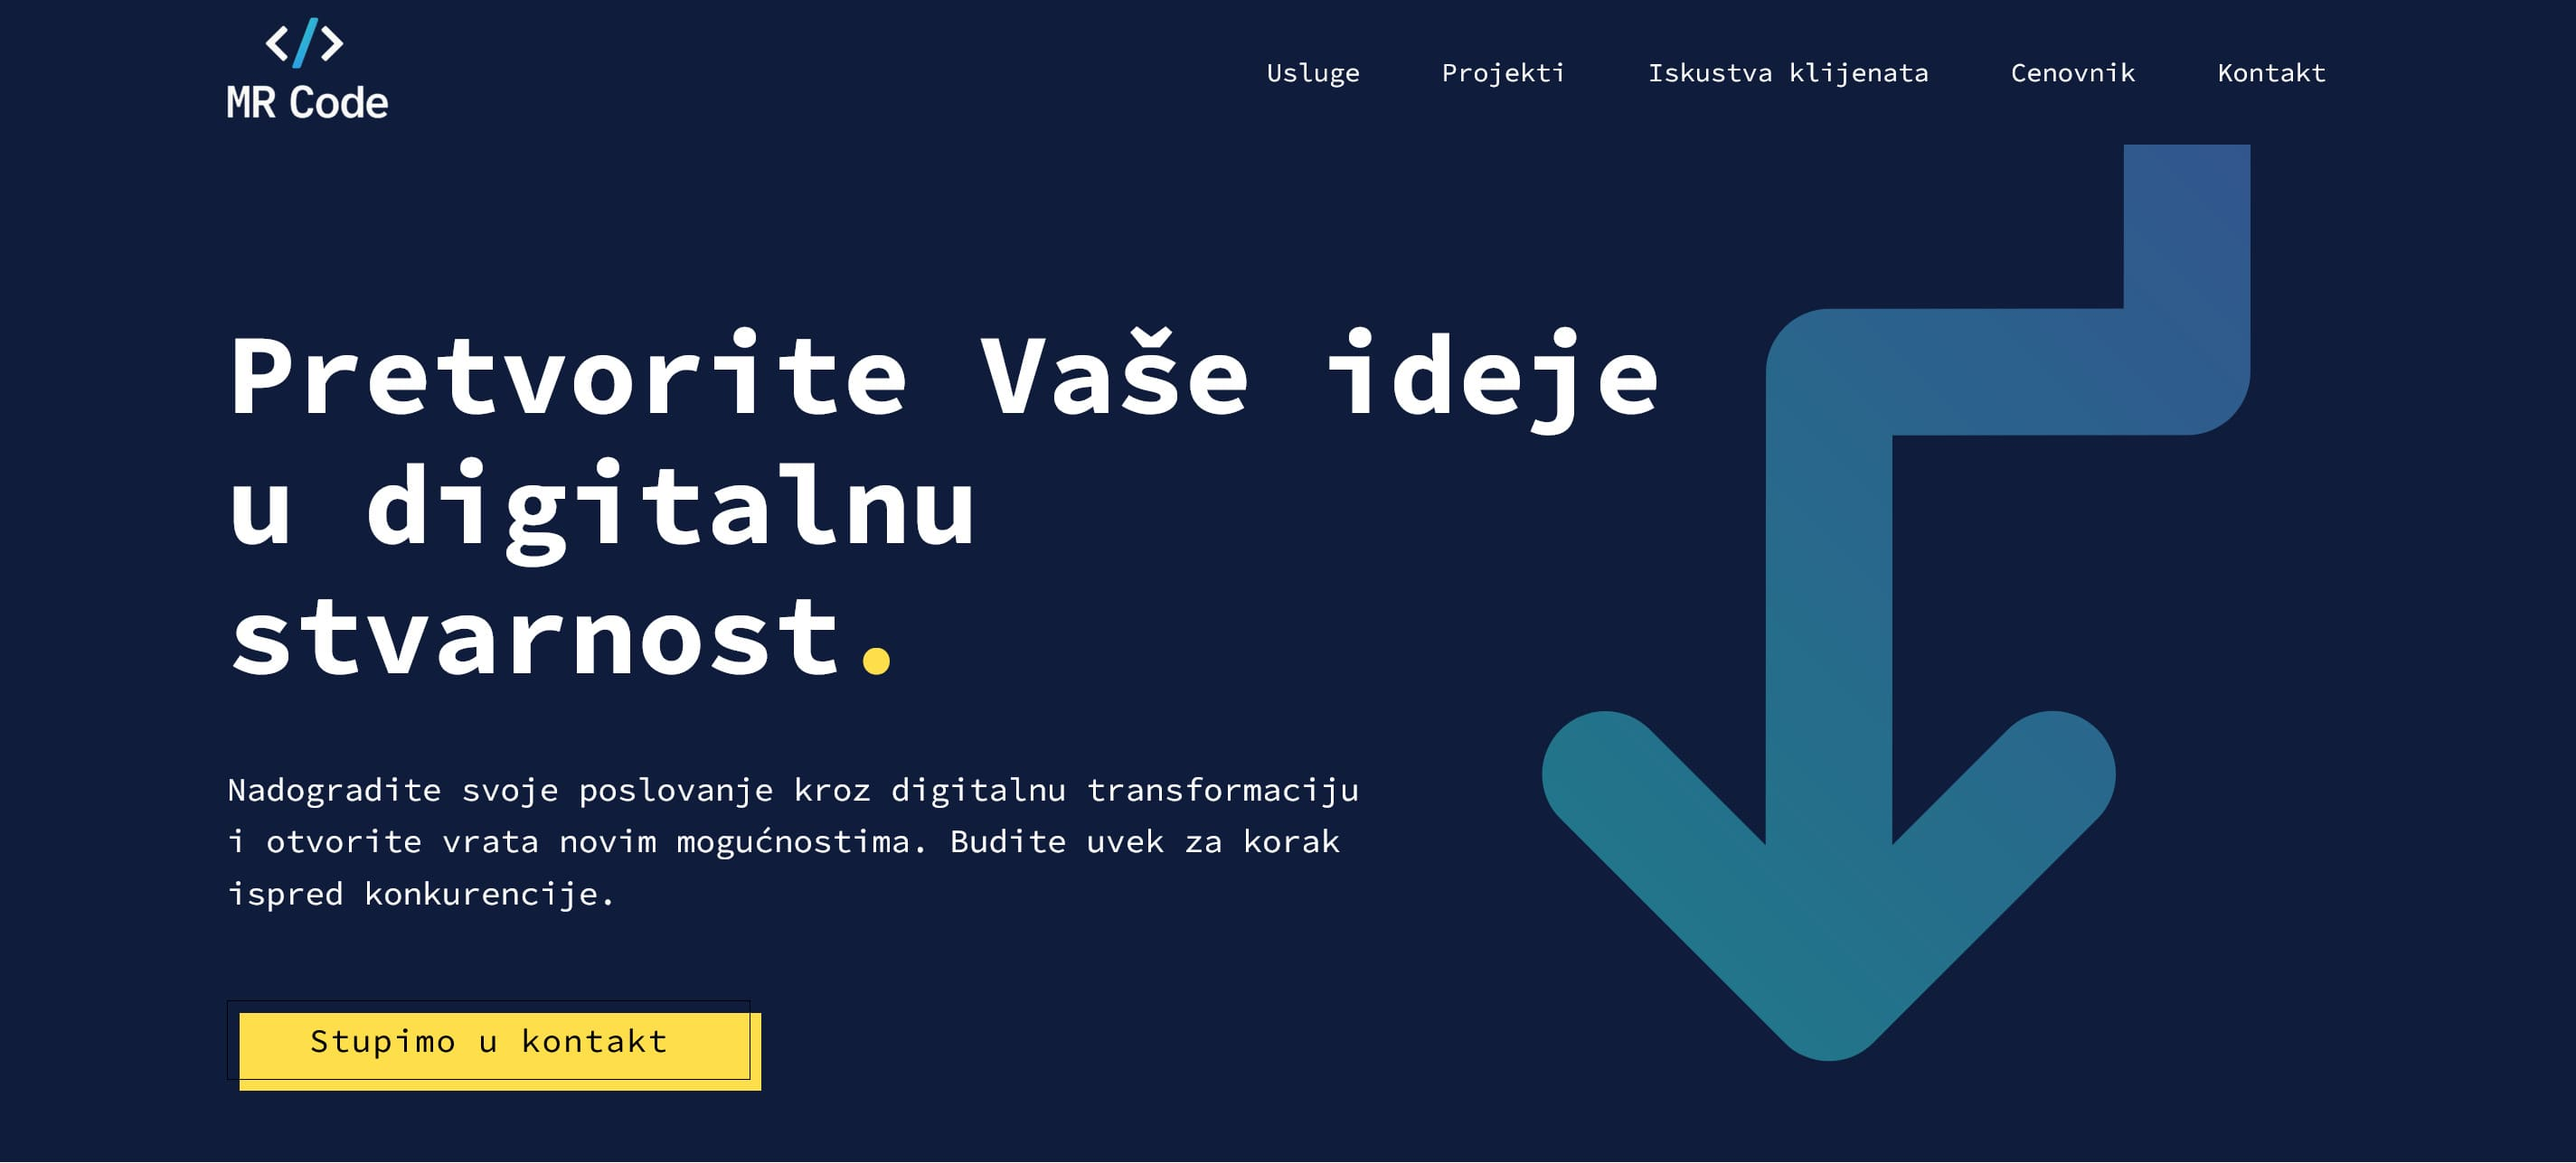
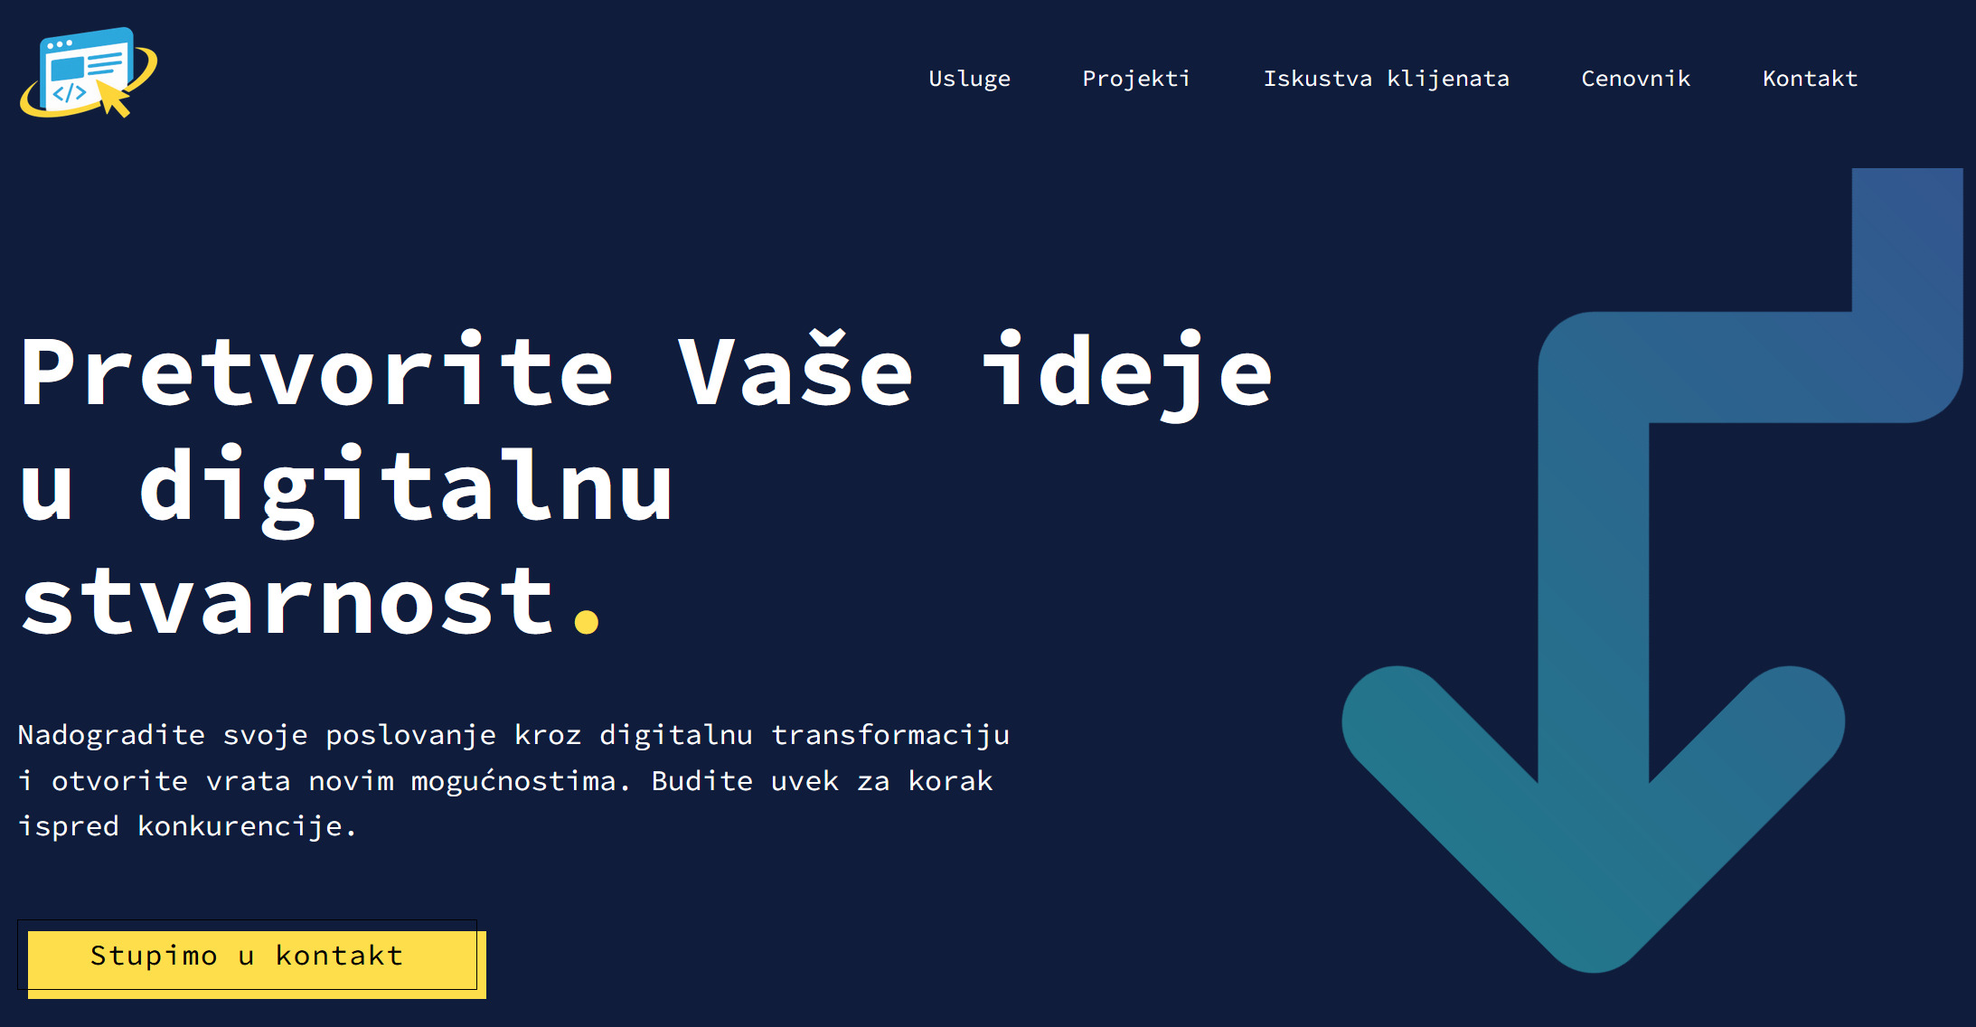
Various improvements

diff --git a/assets/js/global/global.js b/assets/js/global/global.js
@@ -2,13 +2,13 @@
 
 
 // Global elements
-import { ROOT } from '../utils/dom-elements.js';
+import { ROOT } from "../utils/dom-elements.js";
 
 // Class names
-import { class_screenLocked } from '../utils/dom-class-names.js';
+import { class_screenLocked } from "../utils/dom-class-names.js";
 
 // Global Objects
-import ScreenLocker from '../screen-locker/screen-locker.js';
+import ScreenLocker from "../screen-locker/screen-locker.js";
 
 
 /**
@@ -100,7 +100,7 @@ export function createScrollDirectionTracker() {
  * Checks if given HTML element / CSS selector is valid.
  * If HTML element exists return true.
  * If HTML element that is returned from querying with given CSS selector exists, return true.
- * If selector is invalid or element don't exists, return false
+ * If selector is invalid or element don"t exists, return false
  * 
  * @param {HTMLElement | String} elementOrSelector - HTMLElement or String
  *  
@@ -109,7 +109,7 @@ export function createScrollDirectionTracker() {
 function isElementValid(elementOrSelector) {
 
     // Case when string is passed
-    if (typeof elementOrSelector === 'string') {
+    if (typeof elementOrSelector === "string") {
 
         // Case when there is no element with given CSS selector
         if(document.querySelector(elementOrSelector) == null) {
@@ -128,7 +128,7 @@ function isElementValid(elementOrSelector) {
 
 /**
  * This function returns element, 
- * but if given element is CSS selector than it's querying DOM and returns founded element
+ * but if given element is CSS selector than it"s querying DOM and returns founded element
  * 
  * @param {HTMLElement | String} elementOrSelector - The element or CSS selector to be assigned.
  * 
@@ -149,7 +149,7 @@ export function assignElement(elementOrSelector) {
         }
     }
     else {
-        throw new Error('Invalid input. Expected string or HTMLElement.');
+        throw new Error("Invalid input. Expected string or HTMLElement.");
     }
 
 }
@@ -232,16 +232,26 @@ export const getScrollbarWidth = () => window.innerWidth - document.documentElem
  */
 export const initMenuItemsScrollTo = () => {
 
-    const menuWrapper = document.querySelector(".scroll-to-menu-items");
-    const menuItems = menuWrapper?.querySelectorAll("a");
+    const menuWrappers = document.querySelectorAll(".scroll-to-menu-items");
 
-    menuItems?.forEach(item => {
+    menuWrappers.forEach(menuWrapper => {
 
-        item.addEventListener("click", function(event) {
+        const menuItems = menuWrapper?.querySelectorAll("a");
 
-            event.preventDefault();
-            let targetElement = document.querySelector(`${item.getAttribute("href")}`);
-            if(targetElement) scrollToElement(targetElement);
+        menuItems?.forEach(item => {
+
+            item.addEventListener("click", function(event) {
+
+                event.preventDefault();
+                let targetElement = document.querySelector(`${item.getAttribute("href")}`);
+                if(targetElement) scrollToElement(targetElement);
+
+                if(window.innerWidth <= 500) {
+                    window.header.navigationMenu.toggleNavMenuAsSidebar();
+                    window.header.navigationMenu.toggleActiveSidebarClass();
+                }
+
+            });
 
         });
 

diff --git a/assets/scss/partials/header/_header.scss b/assets/scss/partials/header/_header.scss
@@ -20,7 +20,7 @@ header {
     z-index: 10;
     background-color: vars.$dark-grey;
     padding: 10px 0;
-    min-height: 89px;
+    min-height: 126px;
 
     button.hamburger-button {
         display: none;

diff --git a/assets/js/header/header-init.js b/assets/js/header/header-init.js
@@ -3,6 +3,6 @@
 window.addEventListener("load", () => {
 
     // Init header
-    new Header();
+    window.header = new Header();
 
 });

diff --git a/sections/testimonials.php b/sections/testimonials.php
@@ -66,21 +66,21 @@
 
                                 <div class="slider__inner">
                                     <div class="image">
-                                        <img width="400" height="267" src="" alt="Mihaela Djaković Profilna Slika">
+                                        <img width="400" height="267" src="./assets/img/projects/dj-design-studio/people/darko-marinkovic.webp" alt="Darko Marinković Profilna Slika">
                                     </div>
 
                                     <div class="content">
                                         <div class="title">
-                                            <h3>Mihaela Djaković</h3>
+                                            <h3>Darko Marinković</h3>
                                         </div>
-                                        <div class="position">Vlasnik</div>
+                                        <div class="position">Suvlasnik</div>
                                         <div class="project">
-                                            <a href="https://office.intimolabwaer.com/" target="_blanc">Intimo Lab Wear</a>
+                                            <a href="https://djdesignstudio.co/" target="_blanc">DJ Design Studio</a>
                                         </div>
                                         <blockquote>
-                                            „Super iskustvo stvarno. Sajt je ispao mnogo bolje nego što sam
-                                            očekivala, sve je brzo odrađeno i bez komplikacija. Lako smo
-                                            se dogovarali oko svega i na kraju je sve leglo kako treba.“
+                                            „U početku smo bili malo skeptični jer nismo znali kako ceo taj proces ide,
+                                            ali Miloš nam je sve objasnio, strpljivo radio sa nama i svaki detalj
+                                            doterao do kraja. Sada imamo sajt na koji smo baš ponosni.“
                                         </blockquote>
                                     </div>
                                 </div>
@@ -128,21 +128,21 @@
 
                                 <div class="slider__inner">
                                     <div class="image">
-                                        <img width="400" height="267" src="./assets/img/projects/dj-design-studio/people/darko-marinkovic.webp" alt="Darko Marinković Profilna Slika">
+                                        <img width="400" height="267" src="./assets/img/no-user.webp" alt="No User">
                                     </div>
 
                                     <div class="content">
                                         <div class="title">
-                                            <h3>Darko Marinković</h3>
+                                            <h3>Mihaela Djaković</h3>
                                         </div>
-                                        <div class="position">Suvlasnik</div>
+                                        <div class="position">Vlasnik</div>
                                         <div class="project">
-                                            <a href="https://djdesignstudio.co/" target="_blanc">DJ Design Studio</a>
+                                            <a href="https://office.intimolabwaer.com/" target="_blanc">Intimo Lab Wear</a>
                                         </div>
                                         <blockquote>
-                                            „U početku smo bili malo skeptični jer nismo znali kako ceo taj proces ide,
-                                            ali Miloš nam je sve objasnio, strpljivo radio sa nama i svaki detalj
-                                            doterao do kraja. Sada imamo sajt na koji smo baš ponosni.“
+                                            „Super iskustvo stvarno. Sajt je ispao mnogo bolje nego što sam
+                                            očekivala, sve je brzo odrađeno i bez komplikacija. Lako smo
+                                            se dogovarali oko svega i na kraju je sve leglo kako treba.“
                                         </blockquote>
                                     </div>
                                 </div>

diff --git a/sections/pricing.php b/sections/pricing.php
@@ -19,13 +19,15 @@
 
                         <div class="text">
                             <p>
-                                <strong>Bez obzira na obim projekta ili budžet</strong>, možemo napraviti funkcionalano i pouzdano rešenje koji odgovara baš Vama.
-                                Kontaktirajte me za jasnu i fer ponudu - bez skrivenih troškova.
+                                <strong>Projekti već od 150€.</strong>
+                                Svaki sajt je drugačiji, zato cenu određujemo prema Vašim potrebama, obimu i funkcionalnostima.
+                                Bez obzira na <strong>obim projekta</strong> ili <strong>budžet</strong>, možemo napraviti funkcionalano i pouzdano rešenje koji odgovara baš Vama.
+                                Od jednostavnih prezentacionih sajtova do kompleksnijih web rešenja - dobićete jasnu ponudu pre početka rada, bez skrivenih troškova.
                                 <br><br>
                                 <strong>Svaka vrsta dogovora je moguća.</strong>
                             </p>
                         </div>
-                        <div class="section-cta">
+                        <div class="section-cta scroll-to-menu-items">
                             <a href="#get-in-touch" class="button button-off--secondary">Saznajte cenu</a>
                         </div>
 

diff --git a/partials/elements/header.php b/partials/elements/header.php
@@ -12,7 +12,7 @@
                         <div class="logo-holder">
                             <div class="logo-holder__inner">
                                 <a href="./" aria-label="Go to homepage of Milos Rankovic Portfolio" style="text-decoration: none;">
-                                    <img src="./assets/img/logos/mrcode-logo.webp" alt="" width="120">
+                                    <img src="./assets/img/logos/sajtpomeri-logo.webp" alt="" width="120">
                                 </a>
                             </div>
                         </div> <!-- Logo holder end -->
@@ -35,7 +35,7 @@
                                             <a href="#pricing">Cenovnik</a>
                                         </li>
                                         <li>
-                                            <a href="#get-in-touch">Kontakt</a>
+                                            <a href="#get-in-touch" data-smooth-scroll>Kontakt</a>
                                         </li>
                                     </ul>
                                 </nav>

diff --git a/sections/contact.php b/sections/contact.php
@@ -13,7 +13,7 @@
 
                     <div class="text">
                         <p>
-                            Bilo da vam treba kompletan veb sajt, redizajn postojećeg ili SEO optimizacija, ili samo želite da se informišete - obratite mi se.
+                            Bilo da vam treba kompletan veb sajt, redizajn ili održavanje postojećeg, SEO optimizacija, ili samo želite da se informišete - obratite mi se.
                             U što kraćem periodu ću Vam pružiti sve neophodne informacije.
                         </p>
                     </div>

diff --git a/sections/services.php b/sections/services.php
@@ -102,7 +102,7 @@
 
                                     <div class="content">
                                         <p>
-                                            Optimizacija Vaše online prisutnost. Postignite bolje
+                                            Osnovna optimizacija Vaše online prisutnost. Postignite bolje
                                             rangiranje na pretraživačima i privucite više ciljane publike.
                                         </p>
                                     </div>

diff --git a/sections/projects.php b/sections/projects.php
@@ -30,6 +30,7 @@
                                 <div class="labels-wrapper">
                                     <div class="label service">Kreiranje Dizajna</div>
                                     <div class="label service">Razvoj Vebsajta</div>
+                                    <div class="label service">Održavanje Vebsajta</div>
                                 </div>
 
                                 <div class="title">
